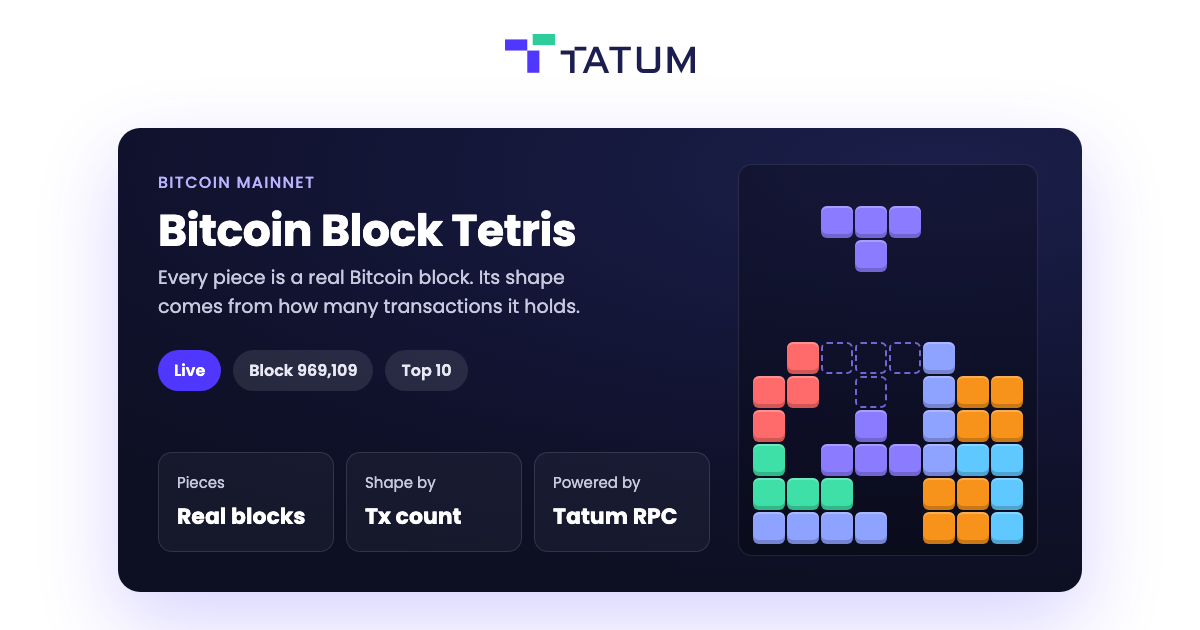
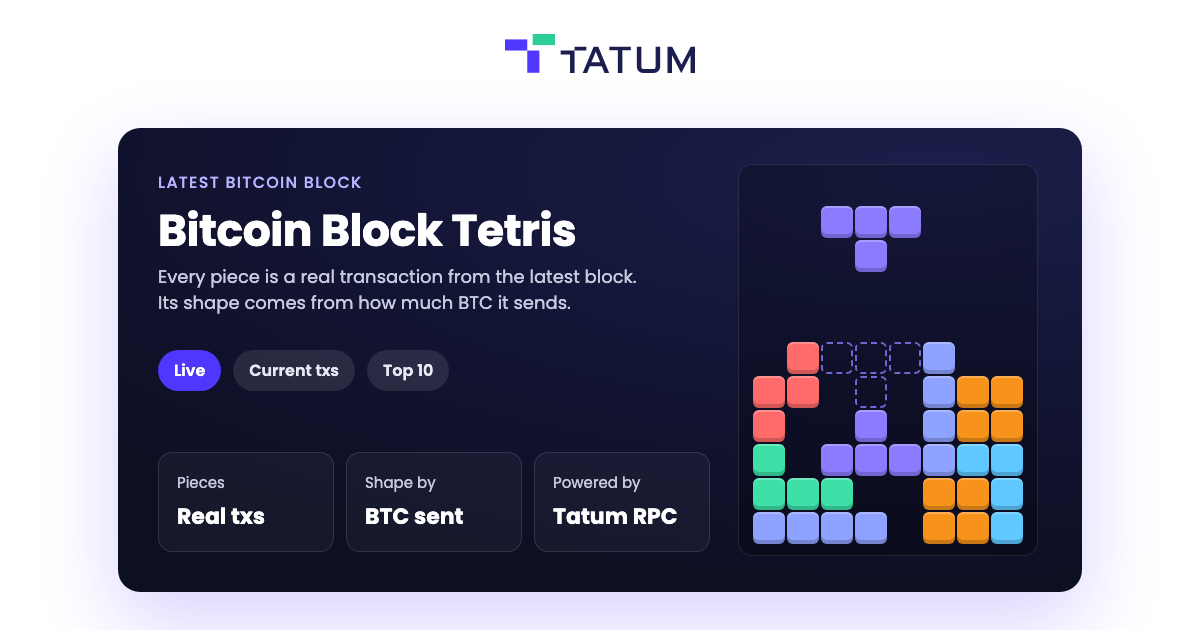
Refresh the cover image for transaction pieces shaped by BTC sent.

diff --git a/app/layout.tsx b/app/layout.tsx
@@ -3,7 +3,7 @@ import { Poppins } from "next/font/google";
 import "./globals.css";
 
 const OG_IMAGE =
-  "https://cdn.prod.website-files.com/618a9dc0e5826661c77e6a67/6abb5f682e5be3f82678c5bf_bitcoin-block-tetris-og-v2.png";
+  "https://cdn.prod.website-files.com/618a9dc0e5826661c77e6a67/6abd06ae9f9c59f7b25ae8db_bitcoin-block-tetris-og-v3.png";
 
 const poppins = Poppins({
   subsets: ["latin"],
